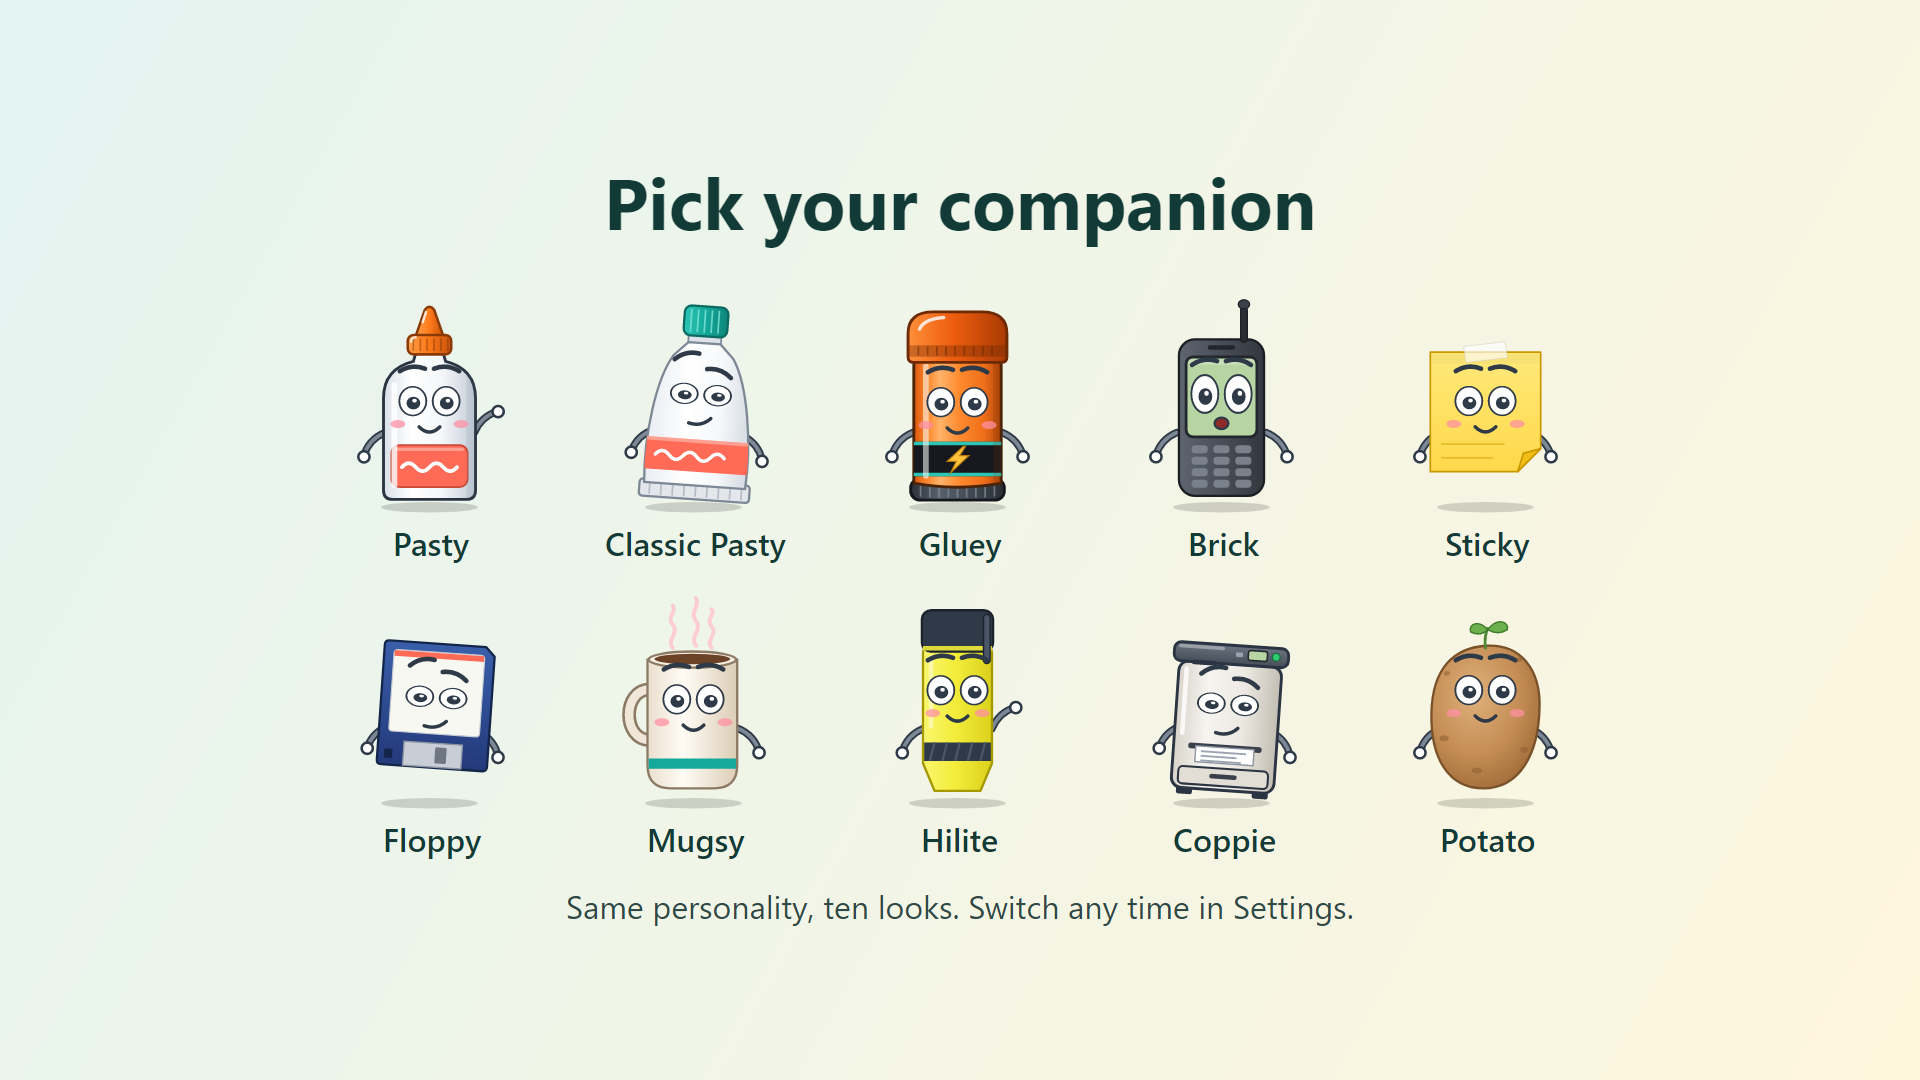
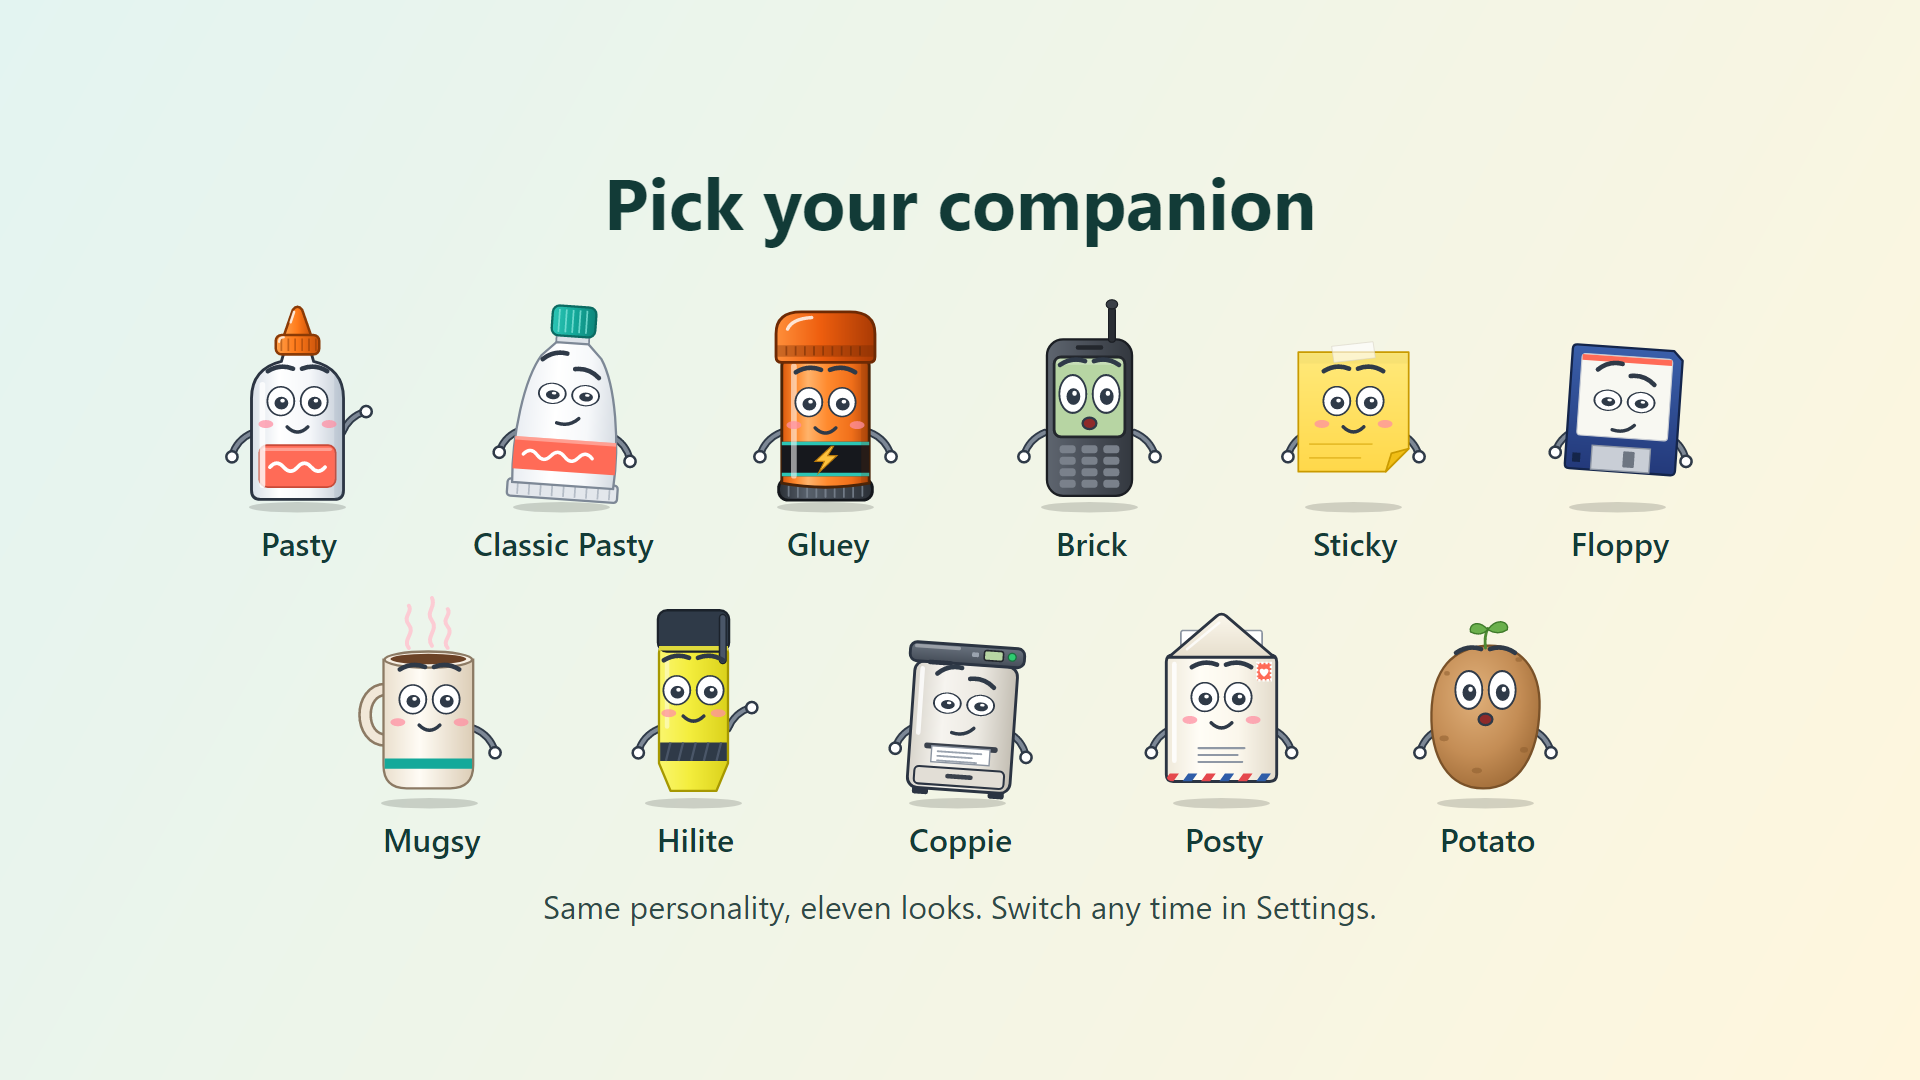
Pasty the Desktop Companion 1.3.1
- Version 1.3.1: Posty the airmail envelope ships
- "Pick your companion" Store screenshot shows all eleven companions
- Store listing: eleven companions, Posty in the description, features
  and screenshot caption; new "What's new" text
- Release notes and README download names for 1.3.1

diff --git a/packaging/store/listing.md b/packaging/store/listing.md
@@ -14,7 +14,7 @@ Pasty is a bottle of school glue with a pointy orange cap, very expressive eyebr
 ## Description [up to 10,000 characters]
 Remember the desktop assistants of the 90s? Pasty is what might have happened if one of them had survived into the modern era: helpful, nostalgic, slightly obnoxious, technically competent, and occasionally sarcastic.
 
-Pasty is an original character: a bottle of school glue with a pointy orange cap and eyebrows that do a lot of the talking. It lives on your desktop, always on top, wherever you drag it. Prefer a different look? Pick one of ten companions, from Classic Pasty (the original tube of paste) and Gluey the glue stick to Coppie the little copier, Brick the 90s brick phone, or Potato.
+Pasty is an original character: a bottle of school glue with a pointy orange cap and eyebrows that do a lot of the talking. It lives on your desktop, always on top, wherever you drag it. Prefer a different look? Pick one of eleven companions, from Classic Pasty (the original tube of paste) and Gluey the glue stick to Coppie the little copier, Posty the airmail envelope, Brick the 90s brick phone, or Potato.
 
 WHAT PASTY DOES
 • Hangs out on your desktop with idle, listening, thinking and talking animations, and its eyes follow your cursor
@@ -43,7 +43,7 @@ FREE AND OPEN SOURCE
 Pasty is free software under the GNU GPL v3 or later. Source code: https://github.com/thestickybullgod/pasty-the-desktop-companion
 
 ## What's new in this version
-Pasty, redesigned: he's now a bottle of school glue with a pointy orange cap. Two new friends join him: Gluey the glue stick and Coppie the little copier, for ten companions in all. And the eyebrows do much more acting: bigger expressions, a quick eyebrow flash when you ask something, and the occasional knowing raised brow.
+Special delivery: Posty the airmail envelope joins the cast, for eleven companions in all. His flap flips open when he waves. Also recent: Pasty's redesign as a bottle of school glue with a pointy orange cap, new friends Gluey the glue stick and Coppie the little copier, and much more expressive eyebrows.
 
 ## Product features [up to 20, 200 characters each]
 1. An original animated desktop companion that lives on top of your other windows
@@ -57,7 +57,7 @@ Pasty, redesigned: he's now a bottle of school glue with a pointy orange cap. Tw
 9. Optional Start with Windows
 10. Halloween Edition with a witch hat, a bat friend and ghost mode
 11. Free and open source (GPL-3.0-or-later)
-12. Pick your companion: Pasty, Classic Pasty, Gluey, Coppie, Brick, Sticky, Floppy, Mugsy, Hilite or Potato
+12. Pick your companion: Pasty, Classic Pasty, Gluey, Coppie, Posty, Brick, Sticky, Floppy, Mugsy, Hilite or Potato
 13. Reminders, break nudges and quiet hours
 14. Ask from any app with Ctrl+Alt+P
 15. Reduced motion that follows your Windows animation setting
@@ -67,7 +67,7 @@ Pasty, redesigned: he's now a bottle of school glue with a pointy orange cap. Tw
 2. `2-bring-your-own-brain.png`: Use Pasty's offline personality, or connect an AI brain of your choice.
 3. `3-private-by-design.png`: Private by design: Pasty collects nothing.
 4. `4-halloween-edition.png`: The Halloween Edition: Pasty was born on Halloween 2026.
-5. `5-pick-your-companion.png`: Pick your companion: ten looks, one personality.
+5. `5-pick-your-companion.png`: Pick your companion: eleven looks, one personality.
 
 ## Search terms [up to 7]
 1. desktop companion

diff --git a/README.md b/README.md
@@ -58,18 +58,18 @@ files, cursor or screen. It respects Snooze, Quiet mode and full-screen hiding, 
 ## Install
 
 ### Windows 10 / 11
-Download `Pasty-1.3.0-win-x64.zip` (or `win-arm64`), extract anywhere, run `Pasty.exe`.
+Download `Pasty-1.3.1-win-x64.zip` (or `win-arm64`), extract anywhere, run `Pasty.exe`.
 No installer and no admin rights needed. Turn on *Start with Windows* in Settings if you'd like.
 
 ### Linux (experimental)
 Pasty is made for Windows. The Linux build is **experimental**: it's provided as-is, gets fixes when they're
 simple, and isn't tested across distributions. Bug reports and pull requests are welcome.
 
-Download `Pasty-1.3.0-linux-x64.tar.gz` (or `linux-arm64`), then:
+Download `Pasty-1.3.1-linux-x64.tar.gz` (or `linux-arm64`), then:
 
 ```sh
-tar -xzf Pasty-1.3.0-linux-x64.tar.gz
-cd Pasty-1.3.0-linux-x64
+tar -xzf Pasty-1.3.1-linux-x64.tar.gz
+cd Pasty-1.3.1-linux-x64
 sh install.sh           # per-user install, no root; sh install.sh --uninstall to remove
 ```
 

diff --git a/RELEASE_NOTES.md b/RELEASE_NOTES.md
@@ -1,3 +1,13 @@
+# Pasty the Desktop Companion 1.3.1
+
+**Posty has entered the chat.**
+
+- **Posty** joins the cast: an airmail envelope with a red stamp and a striped border. His open flap flips back
+  when he waves, showing the letter inside, and at Halloween his stamp turns purple with an orange heart. He treats
+  every message as special delivery. Eleven companions in all.
+- Updated "Pick your companion" Store screenshot.
+
+---
 # Pasty the Desktop Companion 1.3.0
 
 **Pasty, redesigned. And two new friends.**
